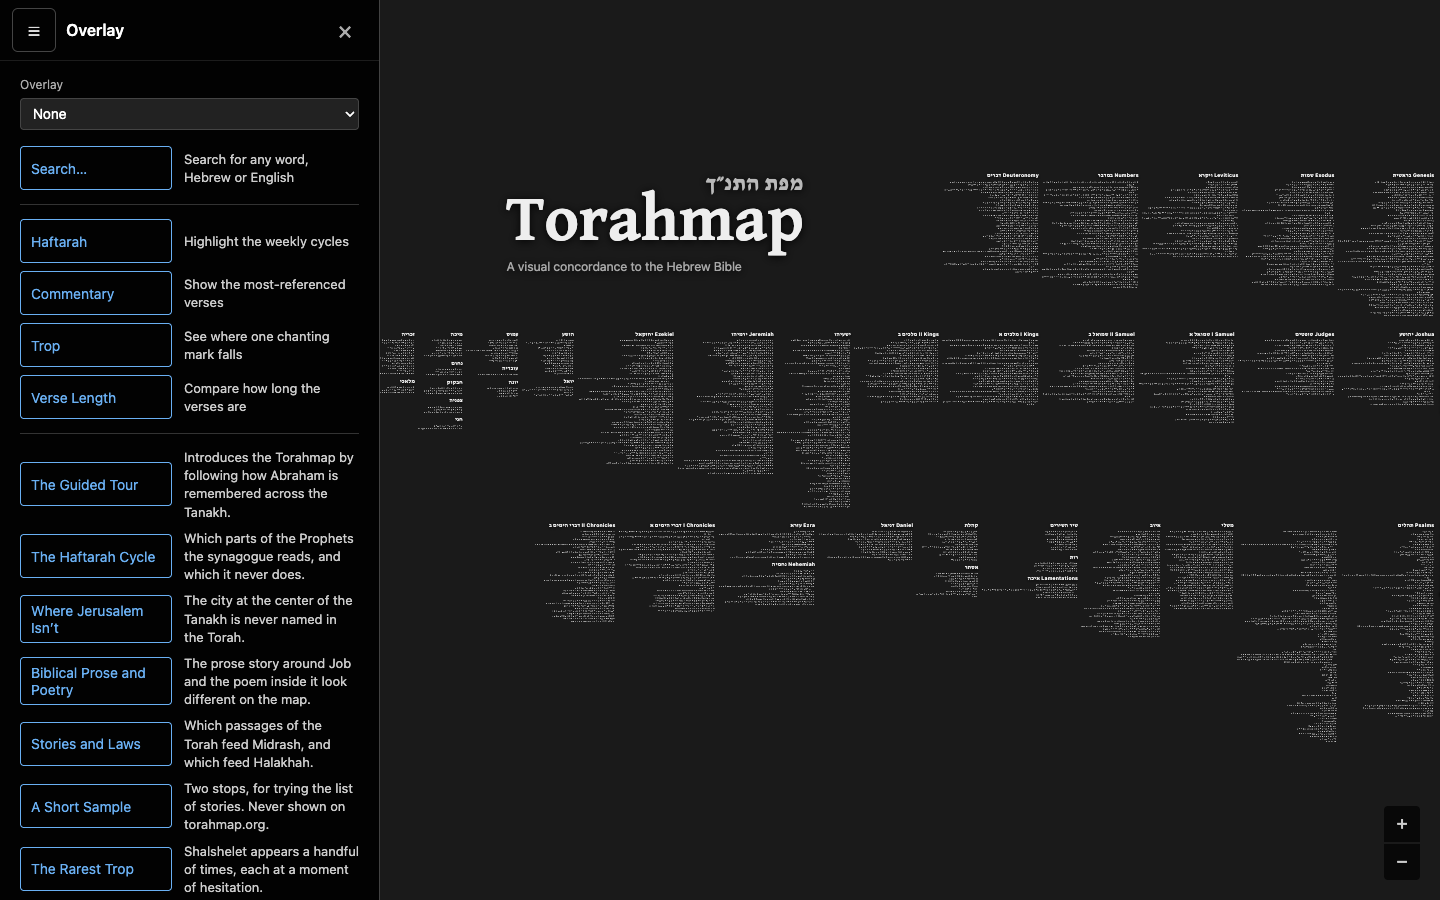
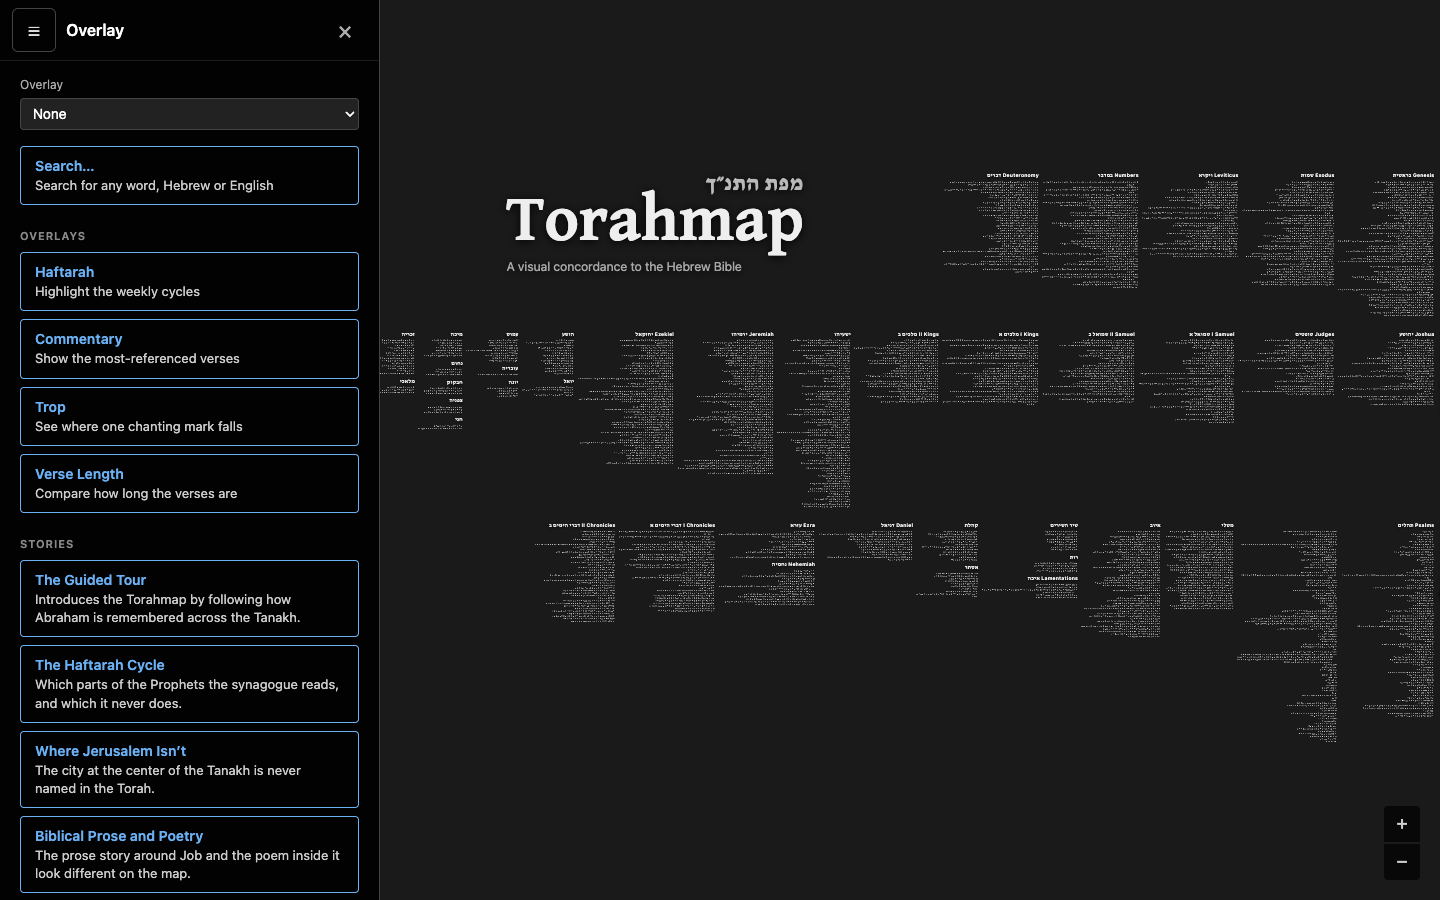
Headed sections and one tall button per place to start
The overlays and the stories sit under OVERLAYS and STORIES headings, and
each place to start is a single full-width button holding its name and
what it does.

Changed region(s): [[0.0, 0.2489, 0.25, 0.9956], [0.0, 0.1556, 0.2188, 0.2178], [0.125, 0.2489, 0.25, 0.28]]

diff --git a/src/startingPoints.ts b/src/startingPoints.ts
@@ -32,22 +32,22 @@ const OVERLAY_STARTS: OverlayStart[] = [
   { overlay: VERSE_LENGTH, detail: 'Compare how long the verses are', params: {} },
 ];
 
-const DIVIDER = '<div class="start-divider" role="separator"></div>';
+const heading = (text: string): string => `<h3 class="start-heading">${text}</h3>`;
 
 const row = (kind: StartChoice['kind'], id: string, label: string, detail: string): string =>
-  `<div class="start-row">
-    <button type="button" class="${CONTROL.button}" data-start="${kind}" data-id="${escapeHtml(id)}">${escapeHtml(label)}</button>
-    <p class="start-detail">${escapeHtml(detail)}</p>
-  </div>`;
+  `<button type="button" class="${CONTROL.button} start-row" data-start="${kind}" data-id="${escapeHtml(id)}">
+    <span class="start-label">${escapeHtml(label)}</span>
+    <span class="start-detail">${escapeHtml(detail)}</span>
+  </button>`;
 
 export function startingPointsHtml(stories: readonly StartStory[]): string {
   return [
     row('search', '', 'Search…', 'Search for any word, Hebrew or English'),
-    DIVIDER,
+    heading('Overlays'),
     ...OVERLAY_STARTS.map(({ overlay, detail }) =>
       row('overlay', overlay.id, overlay.name, detail),
     ),
-    DIVIDER,
+    heading('Stories'),
     ...stories.map((s) => row('story', s.id, s.title, s.description)),
   ].join('');
 }

diff --git a/src/styles/frame.css b/src/styles/frame.css
@@ -443,34 +443,37 @@ body[data-open='about'] #about-panel {
   margin-top: 16px;
 }
 
-/* One width for every button, so the descriptions line up; a long story title wraps. */
 .start-row {
-  display: grid;
-  grid-template-columns: 9.5em 1fr;
-  gap: 12px;
-  align-items: center;
+  display: block;
+  width: 100%;
+  padding: 10px 14px;
+  text-align: left;
 }
 
 .start-row + .start-row {
   margin-top: 8px;
 }
 
-.start-row .control-button {
-  width: 100%;
-  padding: 6px 10px;
-  text-align: left;
+.start-label {
+  display: block;
+  font-weight: 600;
 }
 
 .start-detail {
-  margin: 0;
+  display: block;
+  margin-top: 2px;
   color: #ccc;
   font-size: 13px;
   line-height: 1.4;
 }
 
-.start-divider {
-  margin: 14px 0;
-  border-top: 1px solid #333;
+.start-heading {
+  margin: 24px 0 10px;
+  color: #888;
+  font-size: 11px;
+  font-weight: 600;
+  letter-spacing: 0.08em;
+  text-transform: uppercase;
 }
 
 .story-card {

diff --git a/src/__tests__/unit/startingPoints.test.ts b/src/__tests__/unit/startingPoints.test.ts
@@ -17,7 +17,7 @@ const buttons = (div: Element): HTMLButtonElement[] => [...div.querySelectorAll(
 describe('the starting points', () => {
   const div = parse(startingPointsHtml(STORIES));
 
-  it('offers search, then the overlays, then every story, divided into three', () => {
+  it('offers search, then the overlays and the stories under a heading each', () => {
     const choices = buttons(div).map((b) => startChosen(b));
     expect(choices).toEqual([
       { kind: 'search' },
@@ -28,7 +28,7 @@ describe('the starting points', () => {
       { kind: 'story', id: 'tour' },
       { kind: 'story', id: 'job' },
     ]);
-    expect(div.querySelectorAll('[role="separator"]')).toHaveLength(2);
+    expect(div.querySelectorAll('h3')).toHaveLength(2);
   });
 
   it('names each story by its title, with its description beside it', () => {
